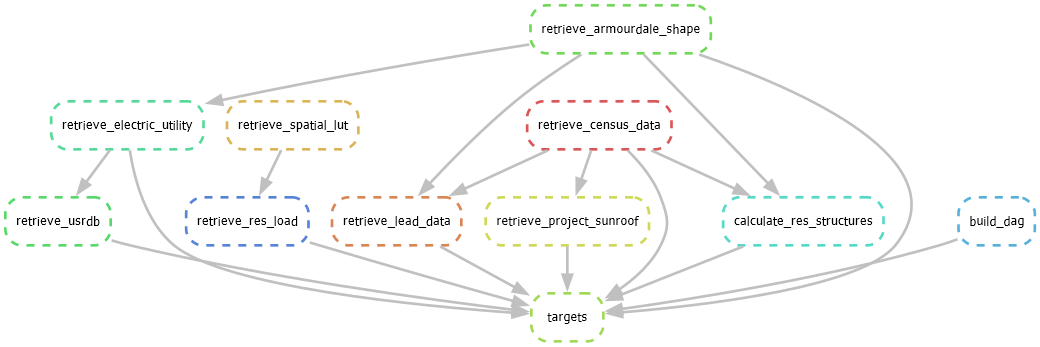
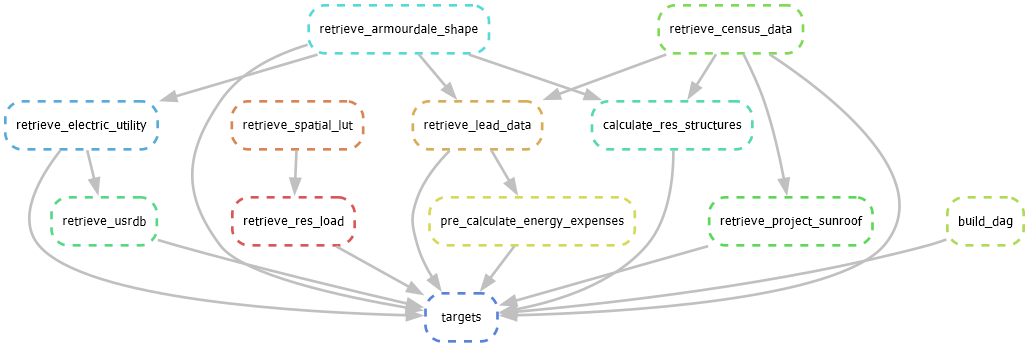
adds rule to calculate the weighted average energy expenses by building type

diff --git a/scripts/pre_calculate_energy_expenses.py b/scripts/pre_calculate_energy_expenses.py
@@ -1,0 +1,21 @@
+import pandas as pd
+
+
+if __name__ == "__main__":
+    
+    lead_df = pd.read_csv(snakemake.input.lead_community)
+    
+    bldg_types = {'1 ATTACHED':"single-family_attached", 
+                '1 DETACHED':"single-family_detached",
+                '2 UNIT':"multi-family_with_2_-_4_units",
+                '3-4 UNIT':"multi-family_with_2_-_4_units",
+                '50+ UNIT':"multi-family_with_5plus_units",
+                'MOBILE_TRAILER':"mobile_home"}
+    
+    lead_df = lead_df.replace(bldg_types)
+    
+    by_unit = lead_df[['BLD','ELEP*UNITS','GASP*UNITS','HINCP*UNITS','UNITS']].groupby(['BLD']).sum()
+    
+    by_unit = by_unit.div(by_unit['UNITS'], axis=0).drop(columns=['UNITS'])
+    
+    by_unit.to_csv(snakemake.output.res_energy_expenses)
